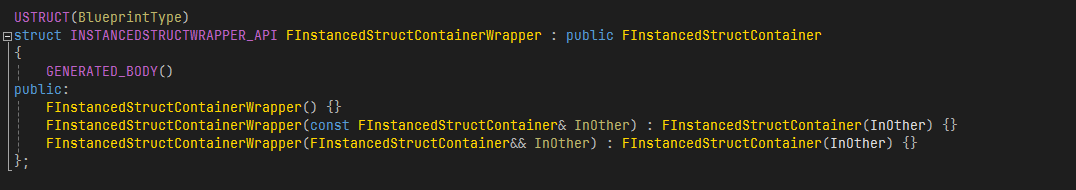
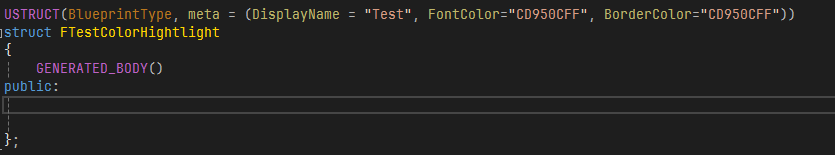
# Update 更新README

Changed region(s): [[0.0, 0.1548, 1.0, 0.8], [0.0, 0.0516, 0.9653, 0.129], [0.0, 0.8, 0.0311, 0.9548]]

diff --git a/README.md b/README.md
@@ -7,7 +7,10 @@
 * * *
 * **FInstancedStructWrapper结构类型**
 ![示例3](Image_3.png)
-
-
-* **提供FInstancedStructContainer的编辑器支持**
+* * *
+* **FInstancedStructWrapper提供颜色高亮**
 ![示例4](Image_4.png)
+![示例4.2](Image_4_2.png)
+* * *
+* **提供FInstancedStructContainer的编辑器支持**
+![示例5](Image_5.png)
